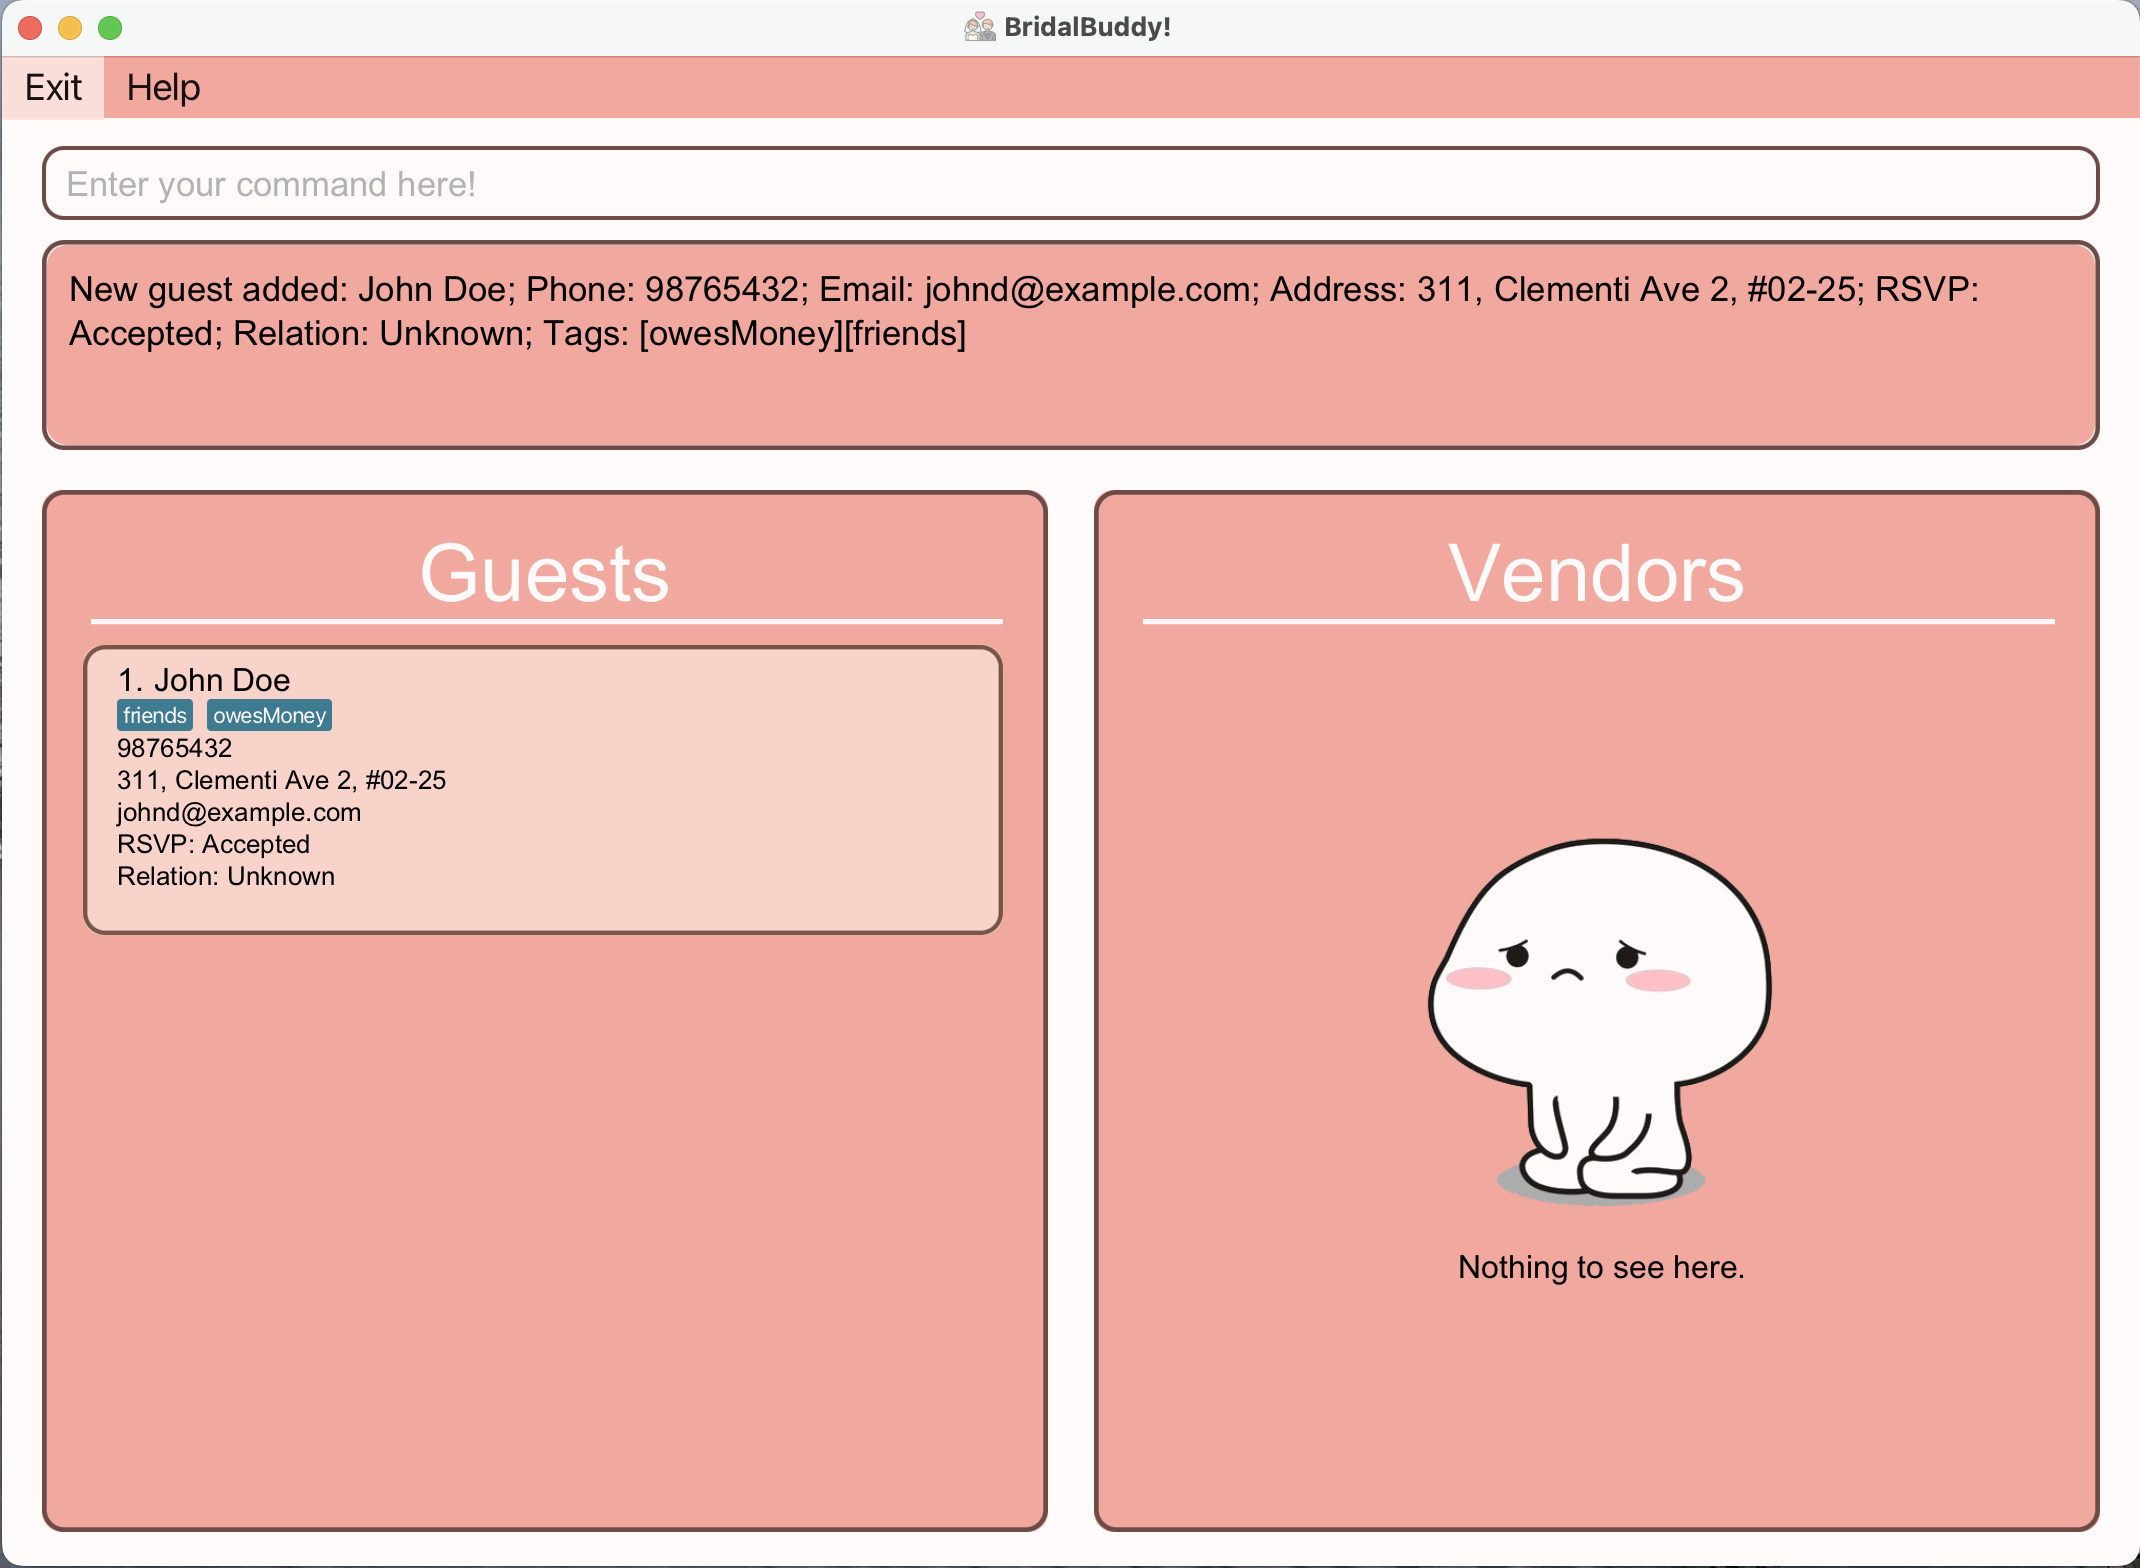
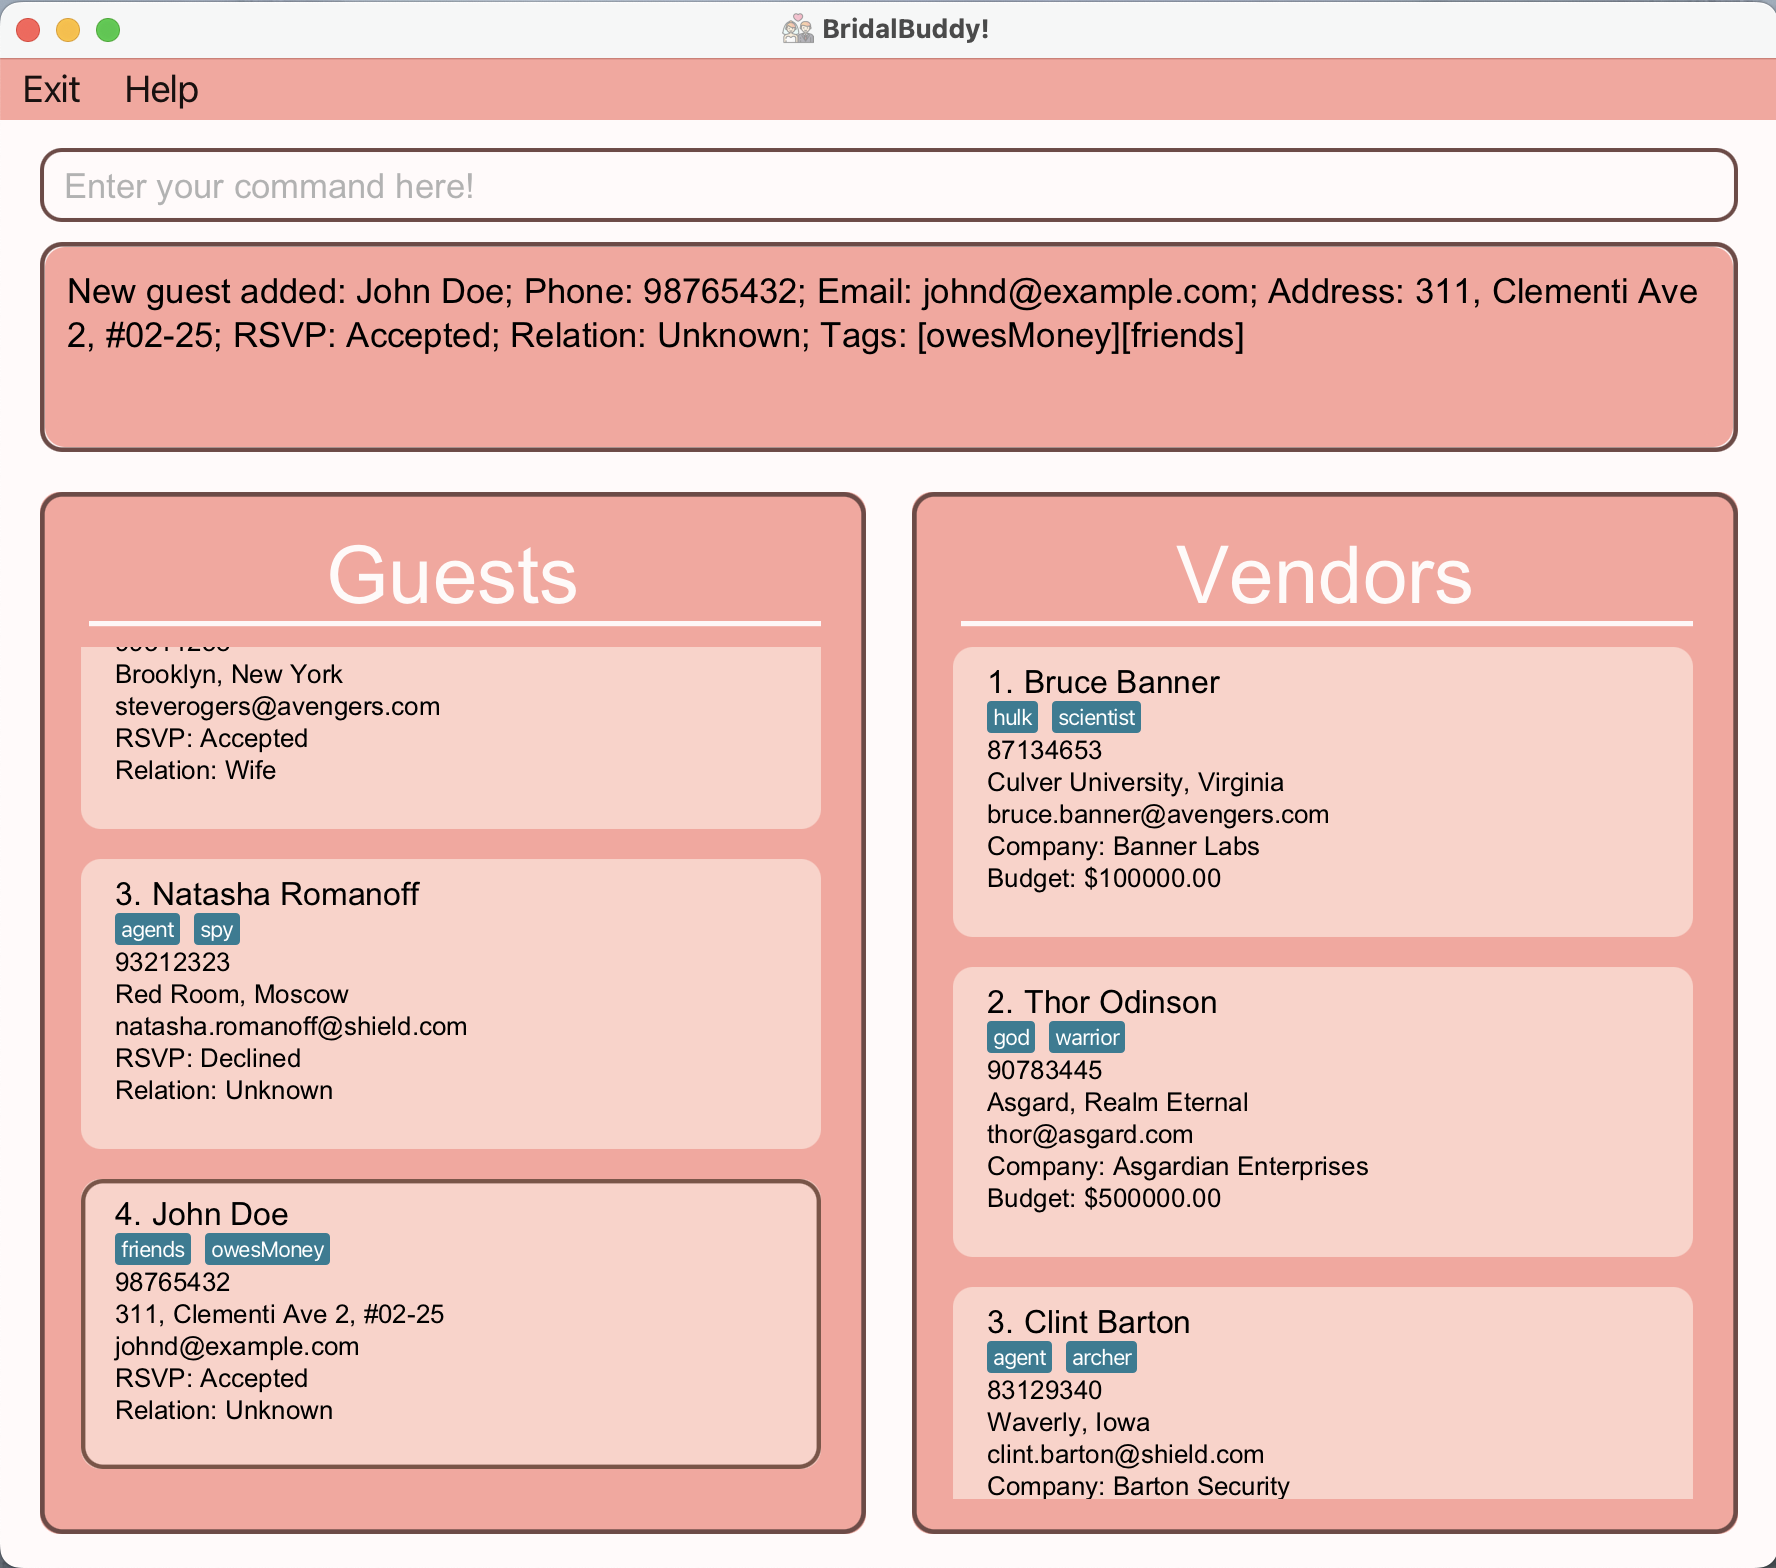
Add updated guest screenshots

diff --git a/docs/UserGuide.md b/docs/UserGuide.md
@@ -376,7 +376,7 @@ This command will help you add a new guest to the bottom of the existing overall
 
 **Example Usage:** `add_guest n/John Doe p/98765432 e/johnd@example.com a/311, Clementi Ave 2, #02-25 rsvp/A r/U t/friends t/owesMoney`
 
-Entering the `add_guest n/John Doe p/98765432 e/johnd@example.com a/311, Clementi Ave 2, #02-25 rsvp/A r/U t/friends t/owesMoney` command returns the following result on your screen:
+Entering the `add_guest n/John Doe p/98765432 e/johnd@example.com a/311, Clementi Ave 2, #02-25 rsvp/A r/U t/friends t/owesMoney` command and scrolling to the bottom of the guest list returns the following result on your screen:
 
 ![add_guest command](images/addGuestCommand.png)
 
@@ -393,11 +393,11 @@ This command will allow you to edit the details of the guest identified by the `
 
 * :information_source: The `INDEX` you enter should be the `INDEX` of the guest you want to edit on the **exact guest list currently displayed on your screen**.
 
-   * Even if a `guest` `John Doe` has an `INDEX` of 3 on the overall guest list, entering `find n/John` followed by `edit_guest 1 p/91234567 e/johndoe@example.com` would still edit the details of `John Doe`, assuming that there is only 1 guest with `John` in their name.
+   * Even if a `guest` `John Doe` has an `INDEX` of 4 on the overall guest list, entering `find n/John` followed by `edit_guest 1 p/91234567 e/johndoe@example.com` would still edit the details of `John Doe`, assuming that there is only 1 guest with `John` in their name.
 
-**Example Usage:** `edit_guest 1 p/91234567 e/johndoe@example.com`
+**Example Usage:** `edit_guest 4 p/91234567 e/johndoe@example.com`
 
-Entering the `edit_guest 1 p/91234567 e/johndoe@example.com` command returns the following result on your screen:
+Entering the `edit_guest 4 p/91234567 e/johndoe@example.com` command and scrolling to the bottom of your guest list returns the following result on your screen:
 
 ![edit_guest command](images/editGuestCommand.png)
 
@@ -412,11 +412,11 @@ This command will help you delete a guest from your existing guest list, identif
 
 * :information_source: The `INDEX` you enter should be the `INDEX` of the guest you want to delete on the **exact guest list currently displayed on your screen**.
 
-   * Even if a `guest` `John Doe` has an `INDEX` of 3 on the overall guest list, entering `find n/John` followed by `delete 1` would still delete the details of `John Doe`, assuming that there is only 1 guest with `John` in their name.
+   * Even if a `guest` `John Doe` has an `INDEX` of 4 on the overall guest list, entering `find n/John` followed by `delete 1` would still delete the details of `John Doe`, assuming that there is only 1 guest with `John` in their name.
 
 **Example Usage:** `delete_guest 1`
 
-Entering the `delete_guest 1` command returns the following result on your screen:
+Assuming that `Guest` `Tony Stark` has an `INDEX` of 1 on the existing guest list, entering the `delete_guest 1` command returns the following result on your screen:
 
 ![delete_guest command](images/deleteGuestCommand.png)
 
